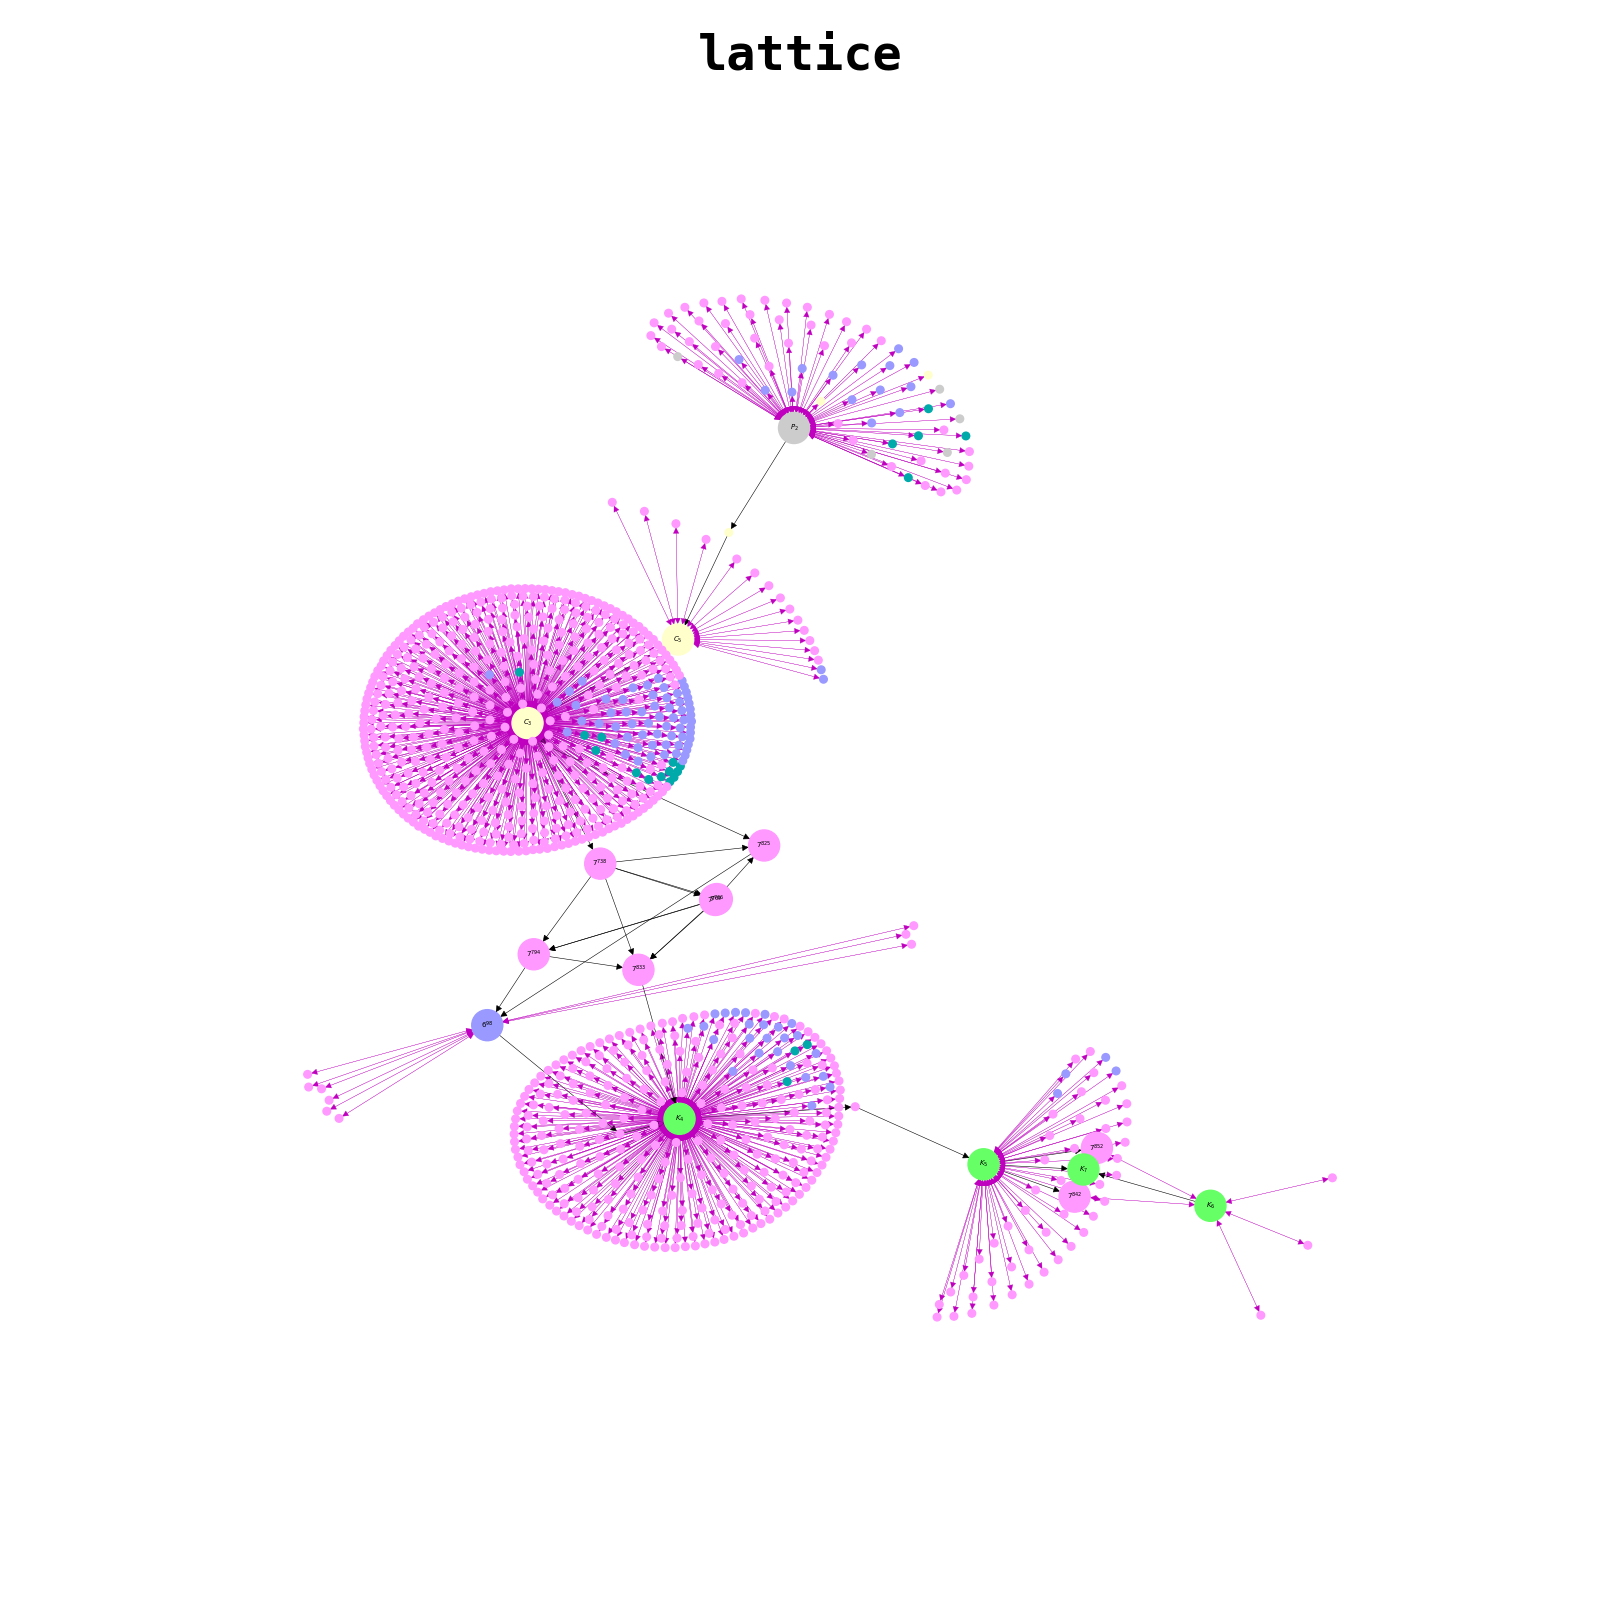
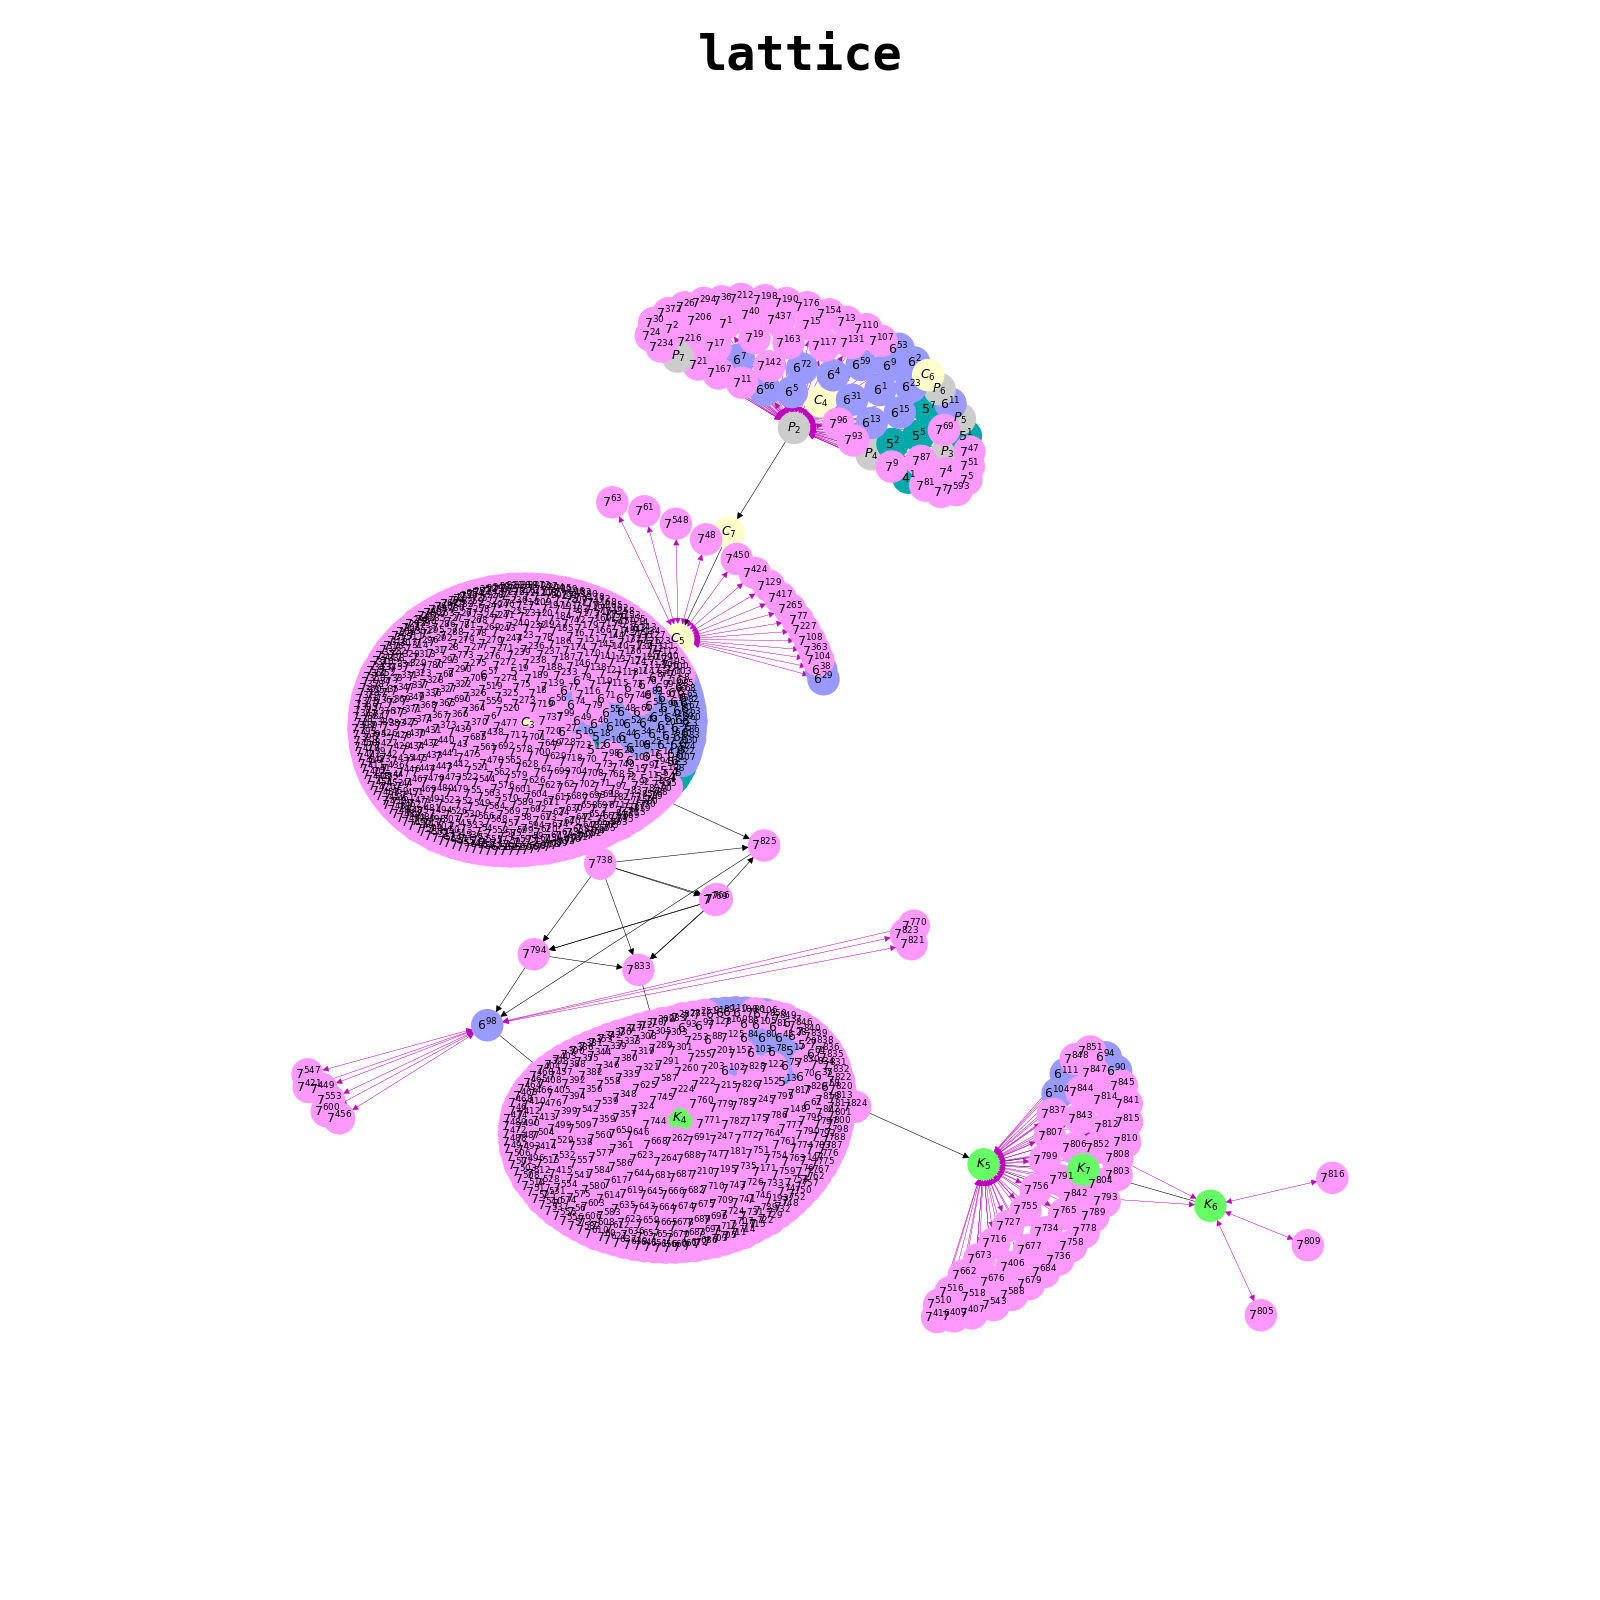
fixed adjacency matrix and plotting

diff --git a/lattice_utils.py b/lattice_utils.py
@@ -158,37 +158,13 @@ def node_color_func(label):
     return '#FFCCCC'
 
 
-# def filter_important_nodes(g, label):
-#     # fname = label
-#     is_small = 'small_graphs' in os.path.dirname(label)
-#     if not is_small and g.out_degree(label) == 1:
-#         return False
-#     #     return True
-#     # n = int(os.path.basename(label).split('_')[1])
-#     # if n <= 4:
-#     #     return True
-#     # with open(fname, 'r') as f:
-#     #     G = deserialize_graph(f.read())
-#         # if is_path(G) or is_complete(G):
-#         #     return True
-#     if g.in_degree(label) == 1 and g.out_degree(label) == 1:
-#         return False
-#     return True
-
-
-# def filter_important_nodes_neighborhood(g, nodelist, ndm):
-#     max_distance = 2
-#     for nd in nodelist:
-#         if not nx.has_path(g, ndm, nd):
-#             continue
-#         if nx.shortest_path_length(g, ndm, nd) <= max_distance:
-#             return True
-#     for nd in nodelist:
-#         if not nx.has_path(g, nd, ndm):
-#             continue
-#         if nx.shortest_path_length(g, nd, ndm) <= max_distance:
-#             return True
-#     return False
+def has_only_one_bidirectional_neighbor(g, label):
+    if g.in_degree(label) != 0 or g.out_degree(label) != 0:
+        return False
+    for nb in g.neighbors(nd):
+        if g.has_edge(nb, nd):
+            return False
+    return True
 
 
 def plot_lattice(g, filename, **kwargs):
@@ -204,7 +180,7 @@ def plot_lattice(g, filename, **kwargs):
     new_g = g
 
     if len(nodelist) > 100:
-        nodelist = [nd for nd in g.nodes() if g.in_degree(nd) != 1 or g.out_degree(nd) != 1]
+        nodelist = [nd for nd in g.nodes() if not has_only_one_bidirectional_neighbor(g, nd)]
         # nodelist = [nd for nd in g.nodes() if filter_important_nodes(g, nd)]
         # print('filtered significant nodes')
         # nodelist_neighborhood = [ndm for ndm in g.nodes()
@@ -221,7 +197,7 @@ def plot_lattice(g, filename, **kwargs):
         # print('reduced insignificant loops')
 
     no_nodes = len(nodelist_neighborhood)
-    fontsize = 9 - int(math.log(no_nodes, 5))
+    # fontsize = 9 - int(math.log(no_nodes, 5))
     # nodesize_min = 150 - 20 * int(math.log(no_nodes, 5))
     # nodesize_max = 700 - 100 * int(math.log(no_nodes, 5))
     # nodesize_step = 200 - 10 * int(math.log(no_nodes, 5))
@@ -232,7 +208,7 @@ def plot_lattice(g, filename, **kwargs):
                      # pos=nx.spring_layout(g, dim=2),
                      nodelist=nodelist_neighborhood,
                      labels={nd : label_rename(nd) for nd in nodelist},
-                     font_size=fontsize,
+                     font_size=9,
                      # font_family='arial',
                      font_weight='bold',
                      font_color='k',
@@ -280,7 +256,7 @@ def graph_color(fname):
         return green
     elif len(g.nodes()) <= 5:
         return cyan
-    return white
+    return black
 
 
 def plot_adjacency_matrix(g, filename):
@@ -308,10 +284,15 @@ def plot_adjacency_matrix(g, filename):
     svg_fname = filename.replace('.png', '.svg')
     with cairo.SVGSurface(svg_fname, size, size) as surface:
         ctx = cairo.Context(surface)
+
+        ctx.rectangle(0, 0, float(size), float(size))
+        ctx.set_source_rgba(1., 1., 1., 1.)
+        ctx.fill()
+
         n = len(g)
         rectsize = float(size) / n
         g_nodes = list(g.nodes())
-        color_priority = [gray, yellow, green, cyan, white]
+        color_priority = [gray, yellow, green, cyan, black]
         def sort_func(gfile):
             with open(gfile, 'r') as f:
                 g = deserialize_digraph(f.read())

diff --git a/make_lattice.py b/make_lattice.py
@@ -28,4 +28,4 @@ if __name__ == '__main__':
             json.dump(serialize_lattice(lattice), f)
     if len(lattice.g.nodes()) > 0:
         plot_lattice(lattice.g, 'lattice.png')
-        # plot_adjacency_matrix(lattice.g, 'lattice_adj.png')
+        plot_adjacency_matrix(lattice.g, 'lattice_adj.png')

diff --git a/README.md b/README.md
@@ -70,6 +70,8 @@ Below is a lattice image generated by putting in partial order graph of homomorp
 
 ![lattice](images/lattice.png)
 
+![lattice_adj](images/lattice_adj.png)
+
 # prerequisites
 
 ```bash
